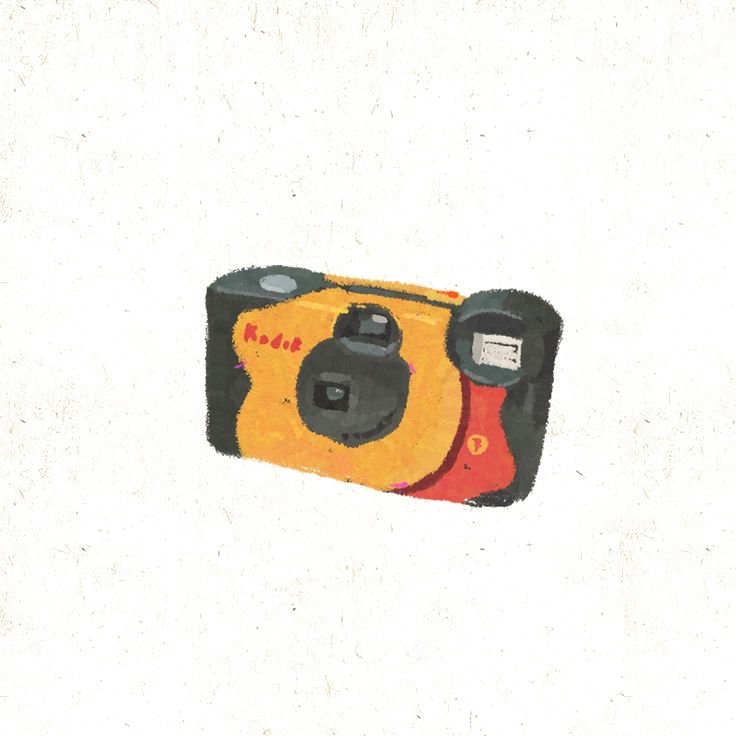
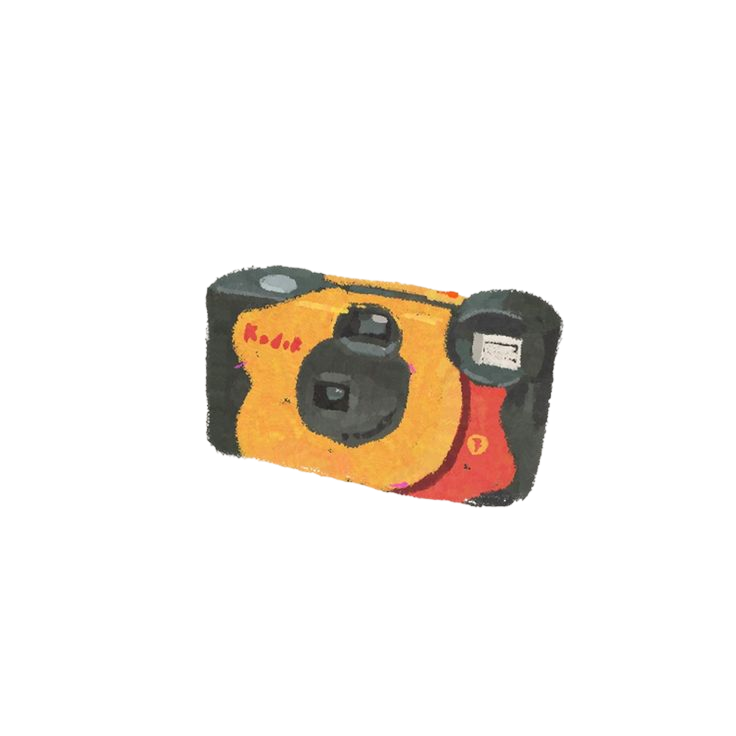
Add tilted props around bio page polaroid
Wire up the previously-unused record player, plant, and palette
illustrations, and swap in a transparent camera illustration, scattered
around the bio photo for a scrapbook feel.

diff --git a/css/style.css b/css/style.css
@@ -862,13 +862,27 @@ h1, h2, h3 { margin: 0; }
 .bio-cta a { text-decoration: underline; text-underline-offset: 3px; }
 .bio-cta a:hover { color: var(--pink-ink); }
 
-.bio-drawing {
+.bio-drawing-wrap {
   position: relative;
   flex: 1 1 260px;
   max-width: 300px;
   margin: 0 auto;
+}
+.bio-drawing {
+  position: relative;
   rotate: 4deg;
 }
+.bio-prop {
+  position: absolute;
+  width: 100px;
+  height: auto;
+  filter: drop-shadow(0 8px 14px rgba(20, 20, 20, 0.18));
+  pointer-events: none;
+}
+.bio-prop--record-player { left: -18%; top: -12%; width: 42%; rotate: -13deg; }
+.bio-prop--plant { right: -16%; top: -6%; width: 30%; rotate: 10deg; }
+.bio-prop--palette { left: -14%; bottom: 4%; width: 26%; rotate: 15deg; }
+.bio-prop--camera { right: -18%; bottom: -8%; width: 36%; rotate: -9deg; }
 /* the "Hello!" caption is baked into the illustration, on the polaroid's
    black bottom border — cover it with a matching black strip and fade
    that cover out on hover to "reveal" the greeting */
@@ -896,7 +910,11 @@ h1, h2, h3 { margin: 0; }
 @media (max-width: 860px) {
   .bio { padding-top: 110px; text-align: left; }
   .bio-columns { flex-direction: column-reverse; gap: 30px; }
-  .bio-drawing { max-width: 260px; }
+  .bio-drawing-wrap { max-width: 260px; }
+  .bio-prop--record-player { left: -10%; top: -8%; }
+  .bio-prop--plant { right: -8%; top: -4%; }
+  .bio-prop--palette { left: -6%; bottom: 6%; }
+  .bio-prop--camera { right: -10%; bottom: -4%; }
   .bio-note-stack { max-width: 92vw; margin: 0 auto; }
   .bio-note-sheet--front { rotate: -0.6deg; padding: 44px 26px 32px; }
   .bio-note-sheet--back { translate: -8px -6px; }

diff --git a/static/css/style.css b/static/css/style.css
@@ -862,13 +862,27 @@ h1, h2, h3 { margin: 0; }
 .bio-cta a { text-decoration: underline; text-underline-offset: 3px; }
 .bio-cta a:hover { color: var(--pink-ink); }
 
-.bio-drawing {
+.bio-drawing-wrap {
   position: relative;
   flex: 1 1 260px;
   max-width: 300px;
   margin: 0 auto;
+}
+.bio-drawing {
+  position: relative;
   rotate: 4deg;
 }
+.bio-prop {
+  position: absolute;
+  width: 100px;
+  height: auto;
+  filter: drop-shadow(0 8px 14px rgba(20, 20, 20, 0.18));
+  pointer-events: none;
+}
+.bio-prop--record-player { left: -18%; top: -12%; width: 42%; rotate: -13deg; }
+.bio-prop--plant { right: -16%; top: -6%; width: 30%; rotate: 10deg; }
+.bio-prop--palette { left: -14%; bottom: 4%; width: 26%; rotate: 15deg; }
+.bio-prop--camera { right: -18%; bottom: -8%; width: 36%; rotate: -9deg; }
 /* the "Hello!" caption is baked into the illustration, on the polaroid's
    black bottom border — cover it with a matching black strip and fade
    that cover out on hover to "reveal" the greeting */
@@ -896,7 +910,11 @@ h1, h2, h3 { margin: 0; }
 @media (max-width: 860px) {
   .bio { padding-top: 110px; text-align: left; }
   .bio-columns { flex-direction: column-reverse; gap: 30px; }
-  .bio-drawing { max-width: 260px; }
+  .bio-drawing-wrap { max-width: 260px; }
+  .bio-prop--record-player { left: -10%; top: -8%; }
+  .bio-prop--plant { right: -8%; top: -4%; }
+  .bio-prop--palette { left: -6%; bottom: 6%; }
+  .bio-prop--camera { right: -10%; bottom: -4%; }
   .bio-note-stack { max-width: 92vw; margin: 0 auto; }
   .bio-note-sheet--front { rotate: -0.6deg; padding: 44px 26px 32px; }
   .bio-note-sheet--back { translate: -8px -6px; }

diff --git a/bio.html b/bio.html
@@ -80,9 +80,15 @@
         </div>
       </div>
 
-      <div class="bio-drawing">
-        <img src="assets/images/bio-portrait.png" alt="Hand-drawn illustration of a polaroid photo of Claudia wearing sunglasses, with a caption reading &quot;Hello!&quot;" />
-        <span class="bio-drawing-cover" aria-hidden="true"></span>
+      <div class="bio-drawing-wrap">
+        <div class="bio-drawing">
+          <img src="assets/images/bio-portrait.png" alt="Hand-drawn illustration of a polaroid photo of Claudia wearing sunglasses, with a caption reading &quot;Hello!&quot;" />
+          <span class="bio-drawing-cover" aria-hidden="true"></span>
+        </div>
+        <img class="bio-prop bio-prop--record-player" src="assets/images/bio-props/record-player.png" alt="Illustration of a green suitcase record player" />
+        <img class="bio-prop bio-prop--plant" src="assets/images/bio-props/plant.png" alt="Illustration of a potted polka-dot begonia" />
+        <img class="bio-prop bio-prop--palette" src="assets/images/bio-props/palette.png" alt="Illustration of a watercolor paint palette" />
+        <img class="bio-prop bio-prop--camera" src="assets/images/bio-props/camera.png" alt="Illustration of a disposable film camera" />
       </div>
 
     </div>
